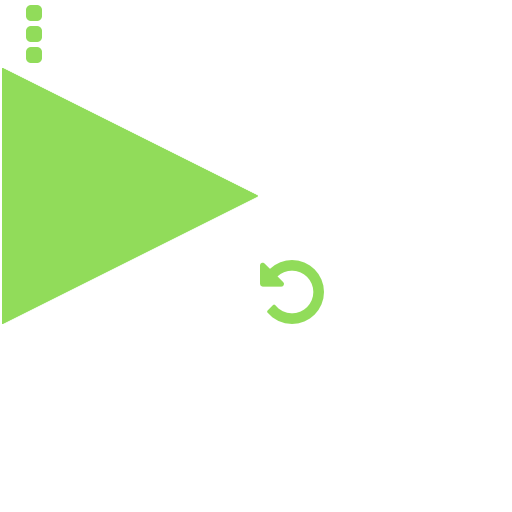
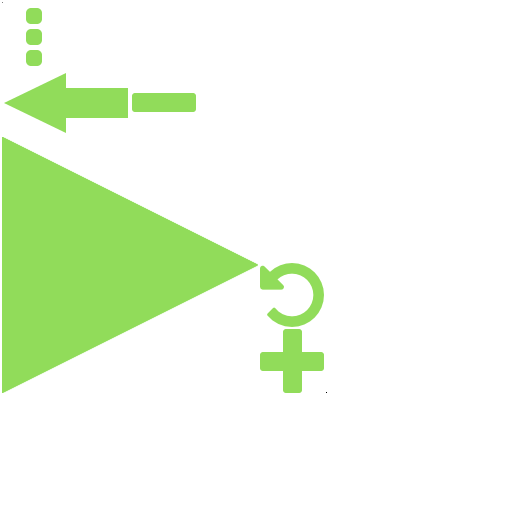
MenuScreen and EditorScreen UIs somewhat complete.

Changed region(s): [[0.0, 0.0, 0.625, 0.7812], [0.5, 0.5938, 0.6562, 0.7812]]

diff --git a/core/src/com/mare5x/chargehockey/EditorScreen.java b/core/src/com/mare5x/chargehockey/EditorScreen.java
@@ -1,0 +1,130 @@
+package com.mare5x.chargehockey;
+
+import com.badlogic.gdx.Gdx;
+import com.badlogic.gdx.Screen;
+import com.badlogic.gdx.graphics.GL20;
+import com.badlogic.gdx.scenes.scene2d.InputEvent;
+import com.badlogic.gdx.scenes.scene2d.Stage;
+import com.badlogic.gdx.scenes.scene2d.ui.Button;
+import com.badlogic.gdx.scenes.scene2d.ui.List;
+import com.badlogic.gdx.scenes.scene2d.ui.ScrollPane;
+import com.badlogic.gdx.scenes.scene2d.ui.Table;
+import com.badlogic.gdx.scenes.scene2d.utils.ClickListener;
+import com.badlogic.gdx.utils.viewport.StretchViewport;
+
+
+class EditorScreen implements Screen {
+    final public ChargeHockeyGame game;
+
+    List<String> list;
+
+    private Stage stage;
+
+    public EditorScreen(final ChargeHockeyGame game) {
+        this.game = game;
+
+        stage = new Stage(new StretchViewport(Gdx.graphics.getWidth(), Gdx.graphics.getHeight()), game.batch);
+
+        Table table = new Table();
+        table.setFillParent(true);
+
+        list = new List<String>(game.skin);
+        init_list_items();
+        ScrollPane scroll_pane = new ScrollPane(list);
+
+        Button play_button = new Button(game.skin, "play");
+        play_button.addListener(new ClickListener() {
+            @Override
+            public void clicked(InputEvent event, float x, float y) {
+                Gdx.app.log("play_button", "clicked");
+            }
+        });
+        play_button.pad(10);
+
+        Table left_subtable = new Table();
+
+        Button back_button = new Button(game.skin, "back");
+        back_button.pad(10);
+        back_button.addListener(new ClickListener() {
+            @Override
+            public void clicked(InputEvent event, float x, float y) {
+                Gdx.app.log("back_button", "clicked");
+                game.setScreen(game.menu_screen);
+            }
+        });
+
+        Button add_button = new Button(game.skin, "add");
+        add_button.addListener(new ClickListener() {
+            @Override
+            public void clicked(InputEvent event, float x, float y) {
+                Gdx.app.log("add_button", "clicked");
+            }
+        });
+        add_button.pad(10);
+
+        Button remove_button = new Button(game.skin, "remove");
+        remove_button.addListener(new ClickListener() {
+            @Override
+            public void clicked(InputEvent event, float x, float y) {
+                Gdx.app.log("remove_button", "clicked");
+            }
+        });
+        remove_button.pad(10);
+
+        left_subtable.add(back_button).pad(15).row();
+        left_subtable.add(add_button).pad(15).row();
+        left_subtable.add(remove_button).pad(15);
+
+        table.add(left_subtable).pad(15);
+        table.add(scroll_pane).pad(15).padRight(50).expand().fill();
+        table.row();
+        table.add(play_button).pad(15).colspan(2);
+
+        stage.addActor(table);
+
+        stage.setDebugAll(true);
+    }
+
+    private void init_list_items() {
+        list.setItems("item1", "item2", "asdfasdfasdfsadfsdf");
+    }
+
+    @Override
+    public void show() {
+        Gdx.input.setInputProcessor(stage);
+    }
+
+    @Override
+    public void render(float delta) {
+        Gdx.gl20.glClearColor(0, 0, 0, 1);
+        Gdx.gl20.glClear(GL20.GL_COLOR_BUFFER_BIT);
+
+        stage.act();
+        stage.draw();
+    }
+
+    @Override
+    public void resize(int width, int height) {
+        stage.getViewport().update(width, height);
+    }
+
+    @Override
+    public void pause() {
+
+    }
+
+    @Override
+    public void resume() {
+
+    }
+
+    @Override
+    public void hide() {
+
+    }
+
+    @Override
+    public void dispose() {
+        stage.dispose();
+    }
+}

diff --git a/core/src/com/mare5x/chargehockey/ChargeHockeyGame.java b/core/src/com/mare5x/chargehockey/ChargeHockeyGame.java
@@ -8,9 +8,8 @@ import com.badlogic.gdx.assets.loaders.FileHandleResolver;
 import com.badlogic.gdx.assets.loaders.SkinLoader;
 import com.badlogic.gdx.assets.loaders.TextureAtlasLoader;
 import com.badlogic.gdx.assets.loaders.resolvers.InternalFileHandleResolver;
-import com.badlogic.gdx.graphics.GL20;
+import com.badlogic.gdx.graphics.Texture;
 import com.badlogic.gdx.graphics.g2d.BitmapFont;
-import com.badlogic.gdx.graphics.g2d.Sprite;
 import com.badlogic.gdx.graphics.g2d.SpriteBatch;
 import com.badlogic.gdx.graphics.g2d.TextureAtlas;
 import com.badlogic.gdx.graphics.g2d.freetype.FreeTypeFontGenerator;
@@ -24,16 +23,18 @@ public class ChargeHockeyGame extends Game {
     public Skin skin;
     public TextureAtlas sprites;
 
-    protected AssetManager manager;
-    protected Screen menu_screen;
+    public AssetManager manager;
 
-    private Sprite tmp_sprite;
+    public Screen menu_screen;
 //    final protected Screen level_screen;
 //    final protected Screen editor_screen;
 //    final protected Screen game_screen;
 
 	@Override
 	public void create () {
+        Gdx.graphics.setContinuousRendering(false);
+        Gdx.graphics.requestRendering();
+
 		batch = new SpriteBatch();
 
         manager = new AssetManager();
@@ -43,14 +44,18 @@ public class ChargeHockeyGame extends Game {
 
         FreetypeFontLoader.FreeTypeFontLoaderParameter font_param = new FreetypeFontLoader.FreeTypeFontLoaderParameter();
         font_param.fontFileName = "OpenSans-Regular.ttf";
-        font_param.fontParameters.size = 16;  //(int)(Gdx.graphics.getDensity() * 16.0f);
+        font_param.fontParameters.size = (int)(Gdx.graphics.getDensity() * 24.0f);
+        font_param.fontParameters.borderWidth = 0.5f;  // make the font bold
         Gdx.app.log("font", String.format("font size: %d", font_param.fontParameters.size));
 
         manager.load("OpenSans-Regular.ttf", BitmapFont.class, font_param);
         manager.finishLoading();
 
+        BitmapFont font = manager.get("OpenSans-Regular.ttf", BitmapFont.class);
+        font.getRegion().getTexture().setFilter(Texture.TextureFilter.Linear, Texture.TextureFilter.Linear);
+
         ObjectMap<String, Object> font_map = new ObjectMap<String, Object>();
-        font_map.put("font", manager.get("OpenSans-Regular.ttf", BitmapFont.class));
+        font_map.put("font", font);
         manager.load("skin.json", Skin.class, new SkinLoader.SkinParameter("ui.atlas", font_map));
 
         manager.load("sprites.atlas", TextureAtlas.class, new TextureAtlasLoader.TextureAtlasParameter());
@@ -60,27 +65,17 @@ public class ChargeHockeyGame extends Game {
         skin = manager.get("skin.json", Skin.class);
 
         sprites = manager.get("sprites.atlas", TextureAtlas.class);
-        tmp_sprite = sprites.createSprite("neg_blue64");
-//        setScreen(menu_screen);
+
+        menu_screen = new MenuScreen(this);
+        setScreen(menu_screen);
 	}
 
     @Override
-    public void render() {
-        Gdx.gl20.glClearColor(1, 0, 0, 1);
-        Gdx.gl20.glClear(GL20.GL_COLOR_BUFFER_BIT);
-
-        batch.begin();
-        tmp_sprite.draw(batch);
-        skin.get("font", BitmapFont.class).draw(batch, "font", 100, 100);
-        batch.end();
-    }
-
-    @Override
 	public void dispose () {
+        menu_screen.dispose();
+
         skin.remove("font", BitmapFont.class);
         manager.dispose();
         batch.dispose();
-
-//        menu_screen.dispose();
 	}
 }

diff --git a/core/src/com/mare5x/chargehockey/MenuScreen.java b/core/src/com/mare5x/chargehockey/MenuScreen.java
@@ -1,0 +1,110 @@
+package com.mare5x.chargehockey;
+
+import com.badlogic.gdx.Gdx;
+import com.badlogic.gdx.Screen;
+import com.badlogic.gdx.graphics.GL20;
+import com.badlogic.gdx.graphics.OrthographicCamera;
+import com.badlogic.gdx.scenes.scene2d.InputEvent;
+import com.badlogic.gdx.scenes.scene2d.Stage;
+import com.badlogic.gdx.scenes.scene2d.ui.Button;
+import com.badlogic.gdx.scenes.scene2d.ui.Table;
+import com.badlogic.gdx.scenes.scene2d.ui.TextButton;
+import com.badlogic.gdx.scenes.scene2d.utils.ClickListener;
+import com.badlogic.gdx.utils.viewport.StretchViewport;
+
+
+class MenuScreen implements Screen {
+    final public ChargeHockeyGame game;
+
+    protected Screen editor_screen;
+
+    private Stage stage;
+    private OrthographicCamera camera;
+
+    public MenuScreen(final ChargeHockeyGame game) {
+        this.game = game;
+
+        editor_screen = new EditorScreen(this.game);
+
+        stage = new Stage(new StretchViewport(Gdx.graphics.getWidth(), Gdx.graphics.getHeight()), game.batch);
+        camera = (OrthographicCamera) stage.getCamera();
+
+        Table table = new Table(game.skin);
+        table.setFillParent(true);
+
+        Button play_button = new Button(game.skin, "play");
+        play_button.addListener(new ClickListener() {
+            @Override
+            public void clicked(InputEvent event, float x, float y) {
+                Gdx.app.log("play_button", "clicked");
+            }
+        });
+
+        TextButton edit_button = new TextButton("CUSTOM EDITOR", game.skin);
+        edit_button.pad(10);
+        edit_button.addListener(new ClickListener() {
+            @Override
+            public void clicked(InputEvent event, float x, float y) {
+                Gdx.app.log("edit_button", "clicked");
+                game.setScreen(editor_screen);
+            }
+        });
+
+        TextButton settings_button = new TextButton("SETTINGS", game.skin);
+        settings_button.pad(10);
+        settings_button.addListener(new ClickListener() {
+            @Override
+            public void clicked(InputEvent event, float x, float y) {
+                Gdx.app.log("settings_button", "clicked");
+            }
+        });
+
+        table.add(play_button).expandX().pad(15).row();
+        table.add(edit_button).pad(15).row();
+        table.add(settings_button).pad(15);
+
+        stage.addActor(table);
+
+        stage.setDebugAll(true);
+    }
+
+    @Override
+    public void show() {
+        Gdx.input.setInputProcessor(stage);
+    }
+
+    @Override
+    public void render(float delta) {
+        Gdx.gl20.glClearColor(0, 0, 0, 1);
+        Gdx.gl20.glClear(GL20.GL_COLOR_BUFFER_BIT);
+
+        stage.act();
+        stage.draw();
+    }
+
+    @Override
+    public void resize(int width, int height) {
+        stage.getViewport().update(width, height, false);
+    }
+
+    @Override
+    public void pause() {
+
+    }
+
+    @Override
+    public void resume() {
+
+    }
+
+    @Override
+    public void hide() {
+
+    }
+
+    @Override
+    public void dispose() {
+        editor_screen.dispose();
+        stage.dispose();
+    }
+}
